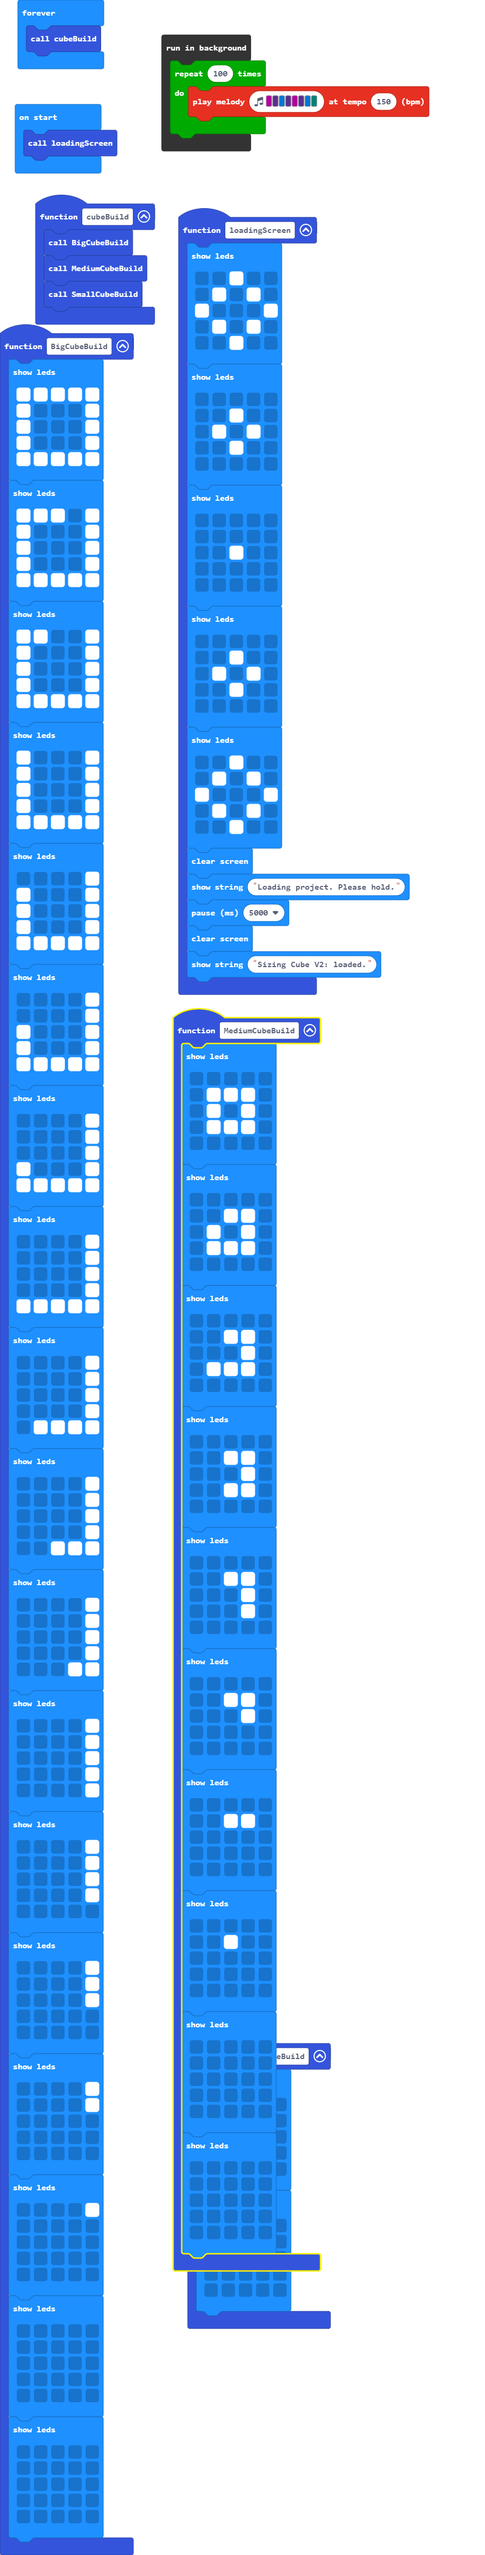
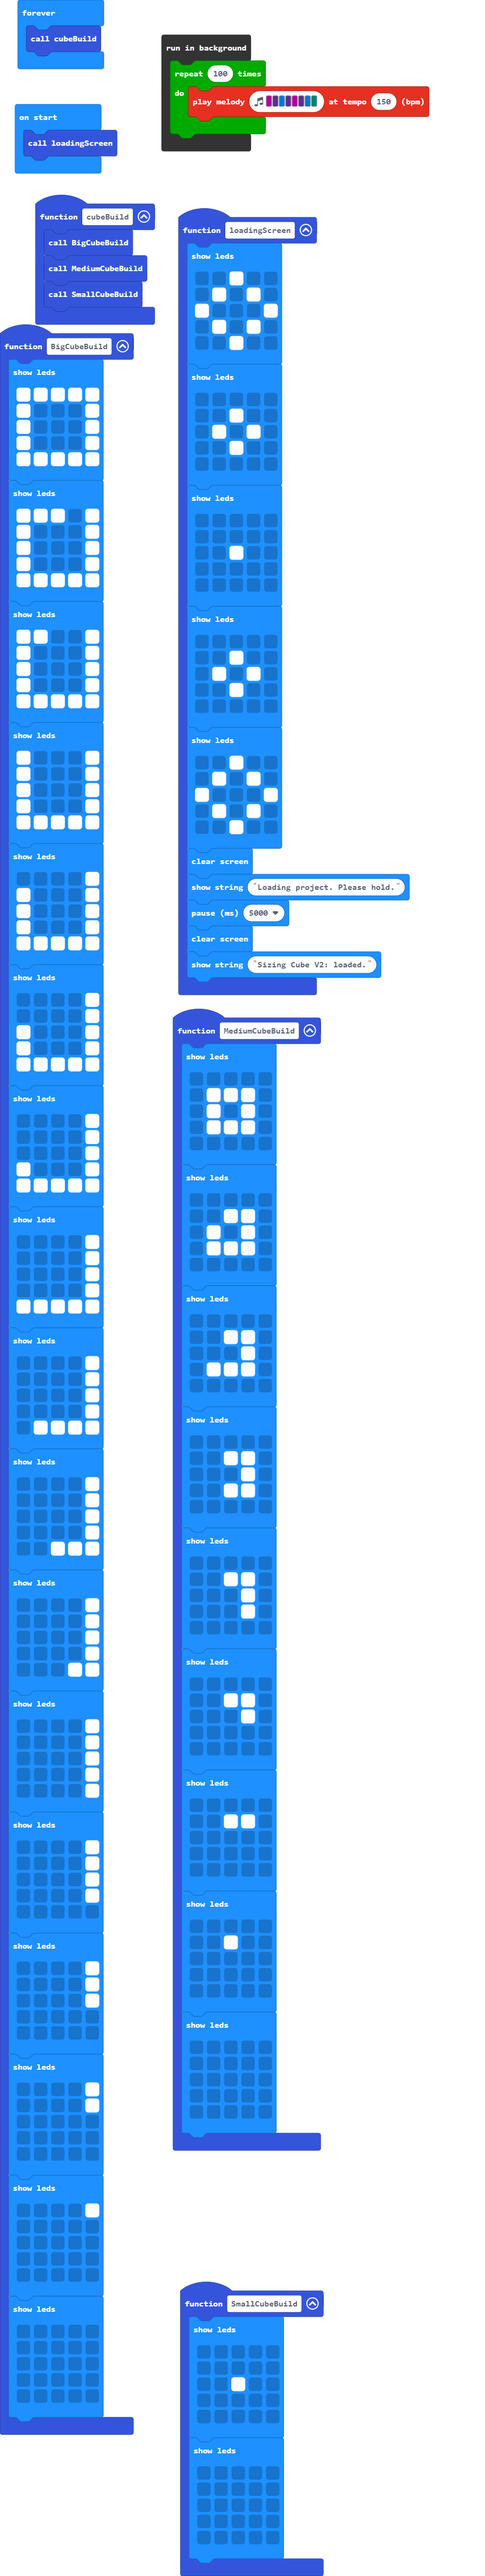
Rearrangement of blocks and LED cleanup.

Changed region(s): [[0.3415, 0.0, 0.8381, 1.0], [0.0, 0.0312, 0.3104, 1.0], [0.7761, 0.0312, 0.8071, 0.0623]]

diff --git a/main.ts b/main.ts
@@ -62,13 +62,6 @@ function MediumCubeBuild () {
         . . . . .
         . . . . .
         `)
-    basic.showLeds(`
-        . . . . .
-        . . . . .
-        . . . . .
-        . . . . .
-        . . . . .
-        `)
 }
 function loadingScreen () {
     basic.showLeds(`
@@ -241,13 +234,6 @@ function BigCubeBuild () {
         `)
     basic.showLeds(`
         . . . . #
-        . . . . .
-        . . . . .
-        . . . . .
-        . . . . .
-        `)
-    basic.showLeds(`
-        . . . . .
         . . . . .
         . . . . .
         . . . . .
